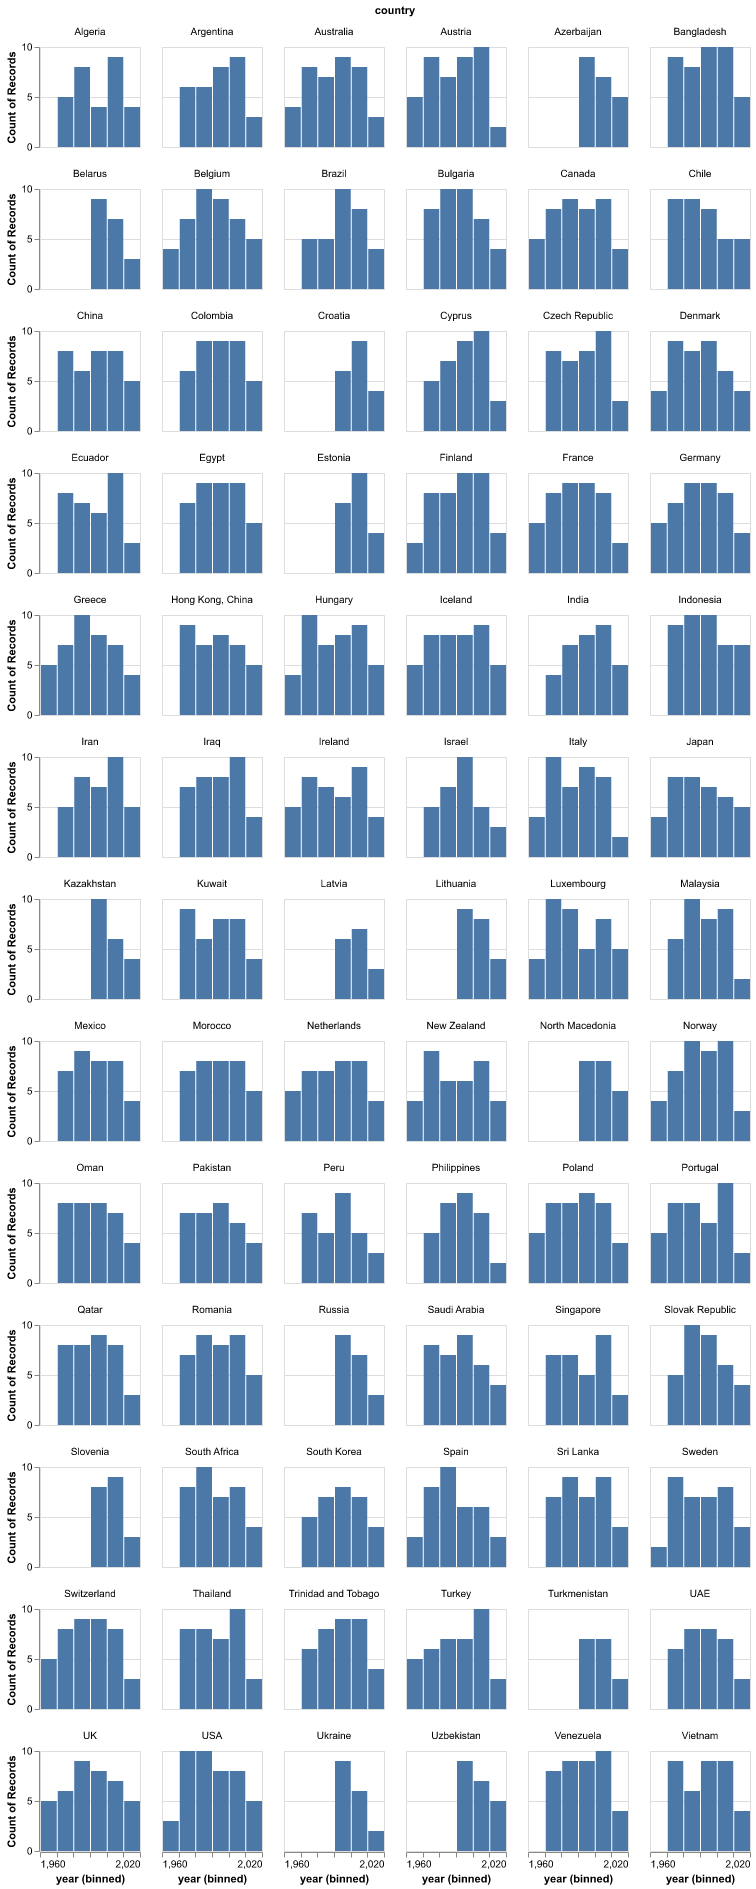
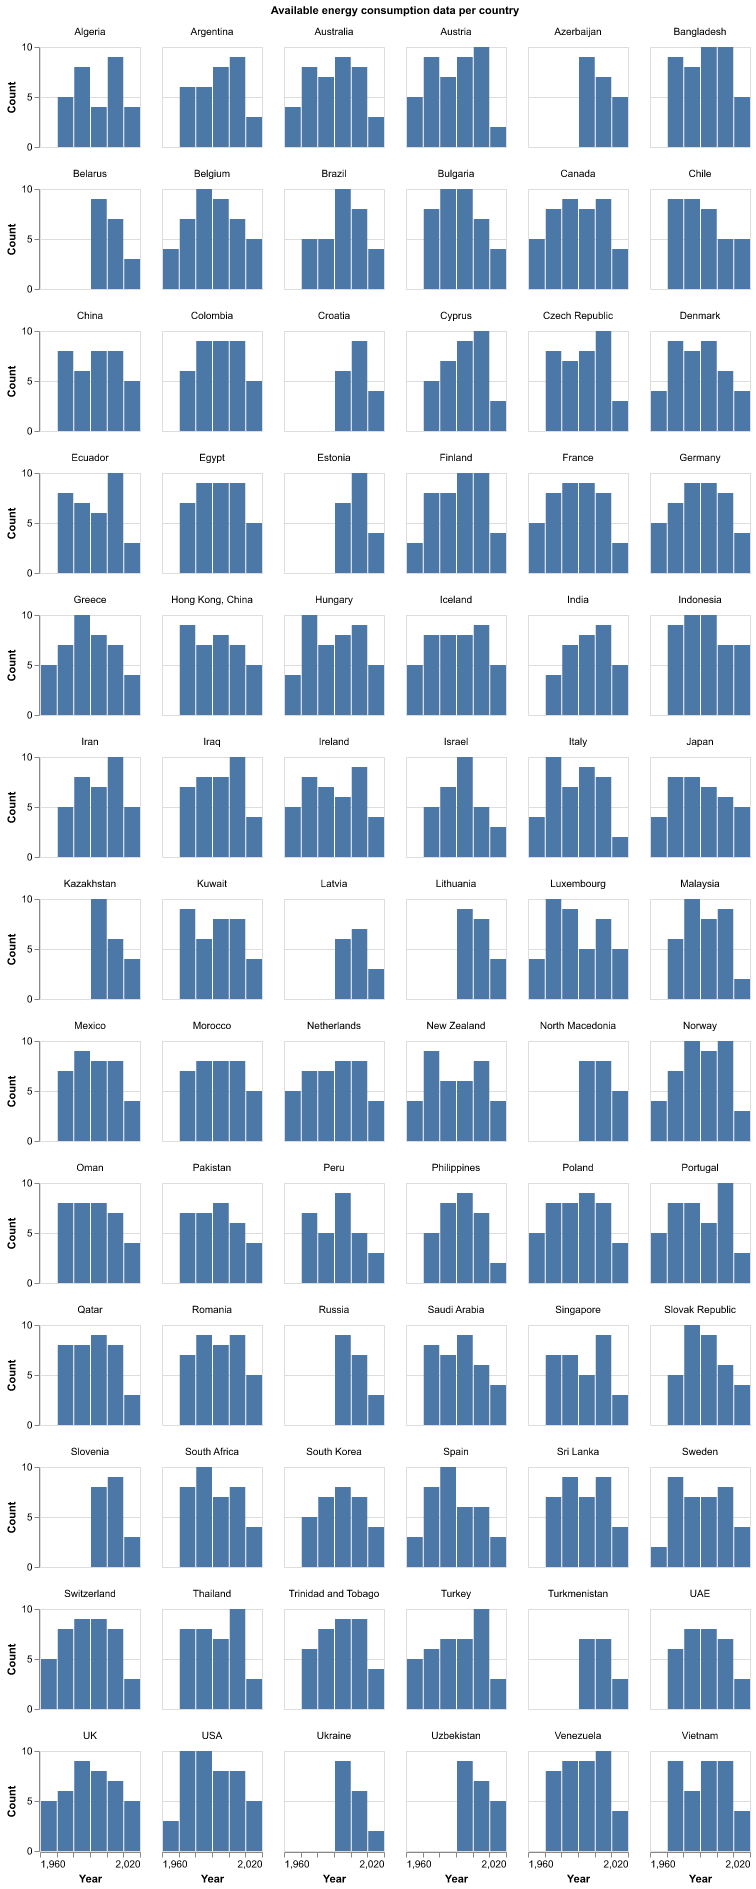
modified EDA plots and docstring

diff --git a/scripts/eda.py b/scripts/eda.py
@@ -13,27 +13,37 @@ import matplotlib.pyplot as plt
 @click.option('--plot_to', type=str, help="Path to directory where the plot will be written to")
 
 def main(train_df, plot_to):
-    '''Plots the distribution of each feature in the processed training data
-        by data type and country. Also saves the plot.'''
+    '''
+    Plots the distribution of each feature in the processed training data 
+    by data type and country. Also saves the plot.
+
+    Parameters
+    ----------
+    train_df : str
+    A string representing the path to the processed training data in CSV format.
+
+    plot_to : str
+    A string representing the path to the directory where the plot will be saved.
+    '''
 
     train_df = pd.read_csv(train_df, index_col=0)
 
     # Distributions for all numerical columns
-    train_df.hist(bins=50, figsize=(20, 15));   
+    train_df.hist(bins=50, figsize=(20, 15));  
+    plt.gcf().suptitle('Histogram of Numeric Columns') 
     
     plt.gcf().savefig(os.path.join(plot_to, "histogram_by_numeric_cols.png"))
 
     # Distribution for each country
     country_dist = alt.Chart(train_df).mark_bar().encode(
-        alt.X('year').bin(maxbins=10),
-        y='count()'
+        x = alt.X('year', title = "Year").bin(maxbins=10),
+        y=alt.Y('count()', title='Count')
     ).properties(
         width=100,
-        height=100
-    ).facet(
-        'country',
-        columns=6
-    )
+        height=100,
+        title="Available energy consumption data per country"
+    ).facet(facet=alt.Facet('country:N', 
+                            title="Available energy consumption data per country"), columns=6)
 
     country_dist.save(os.path.join(plot_to, "histogram_by_country.png"))
 

diff --git a/scripts/split.py b/scripts/split.py
@@ -13,7 +13,21 @@ from sklearn.model_selection import train_test_split
 @click.option('--random_state', type=int, help="Random state", default=123)
 
 def main(raw_data, data_to, random_state):
-    '''This script splits and save the raw data into train and test sets'''
+    '''
+    This script reads a raw dataset, splits it into train and test sets, and saves them as CSV files.
+
+    Parameters
+    ----------
+    raw_data : str
+        A string representing the path to the raw data in CSV format.
+
+    data_to : str
+        A string representing the path to the directory where the split datasets will be saved.
+
+    random_state : int, optional
+        An integer that is used as a seed for the random number generator during the split.
+        Default is 123.
+    '''
 
     df = pd.read_csv(raw_data, index_col=0)
 
